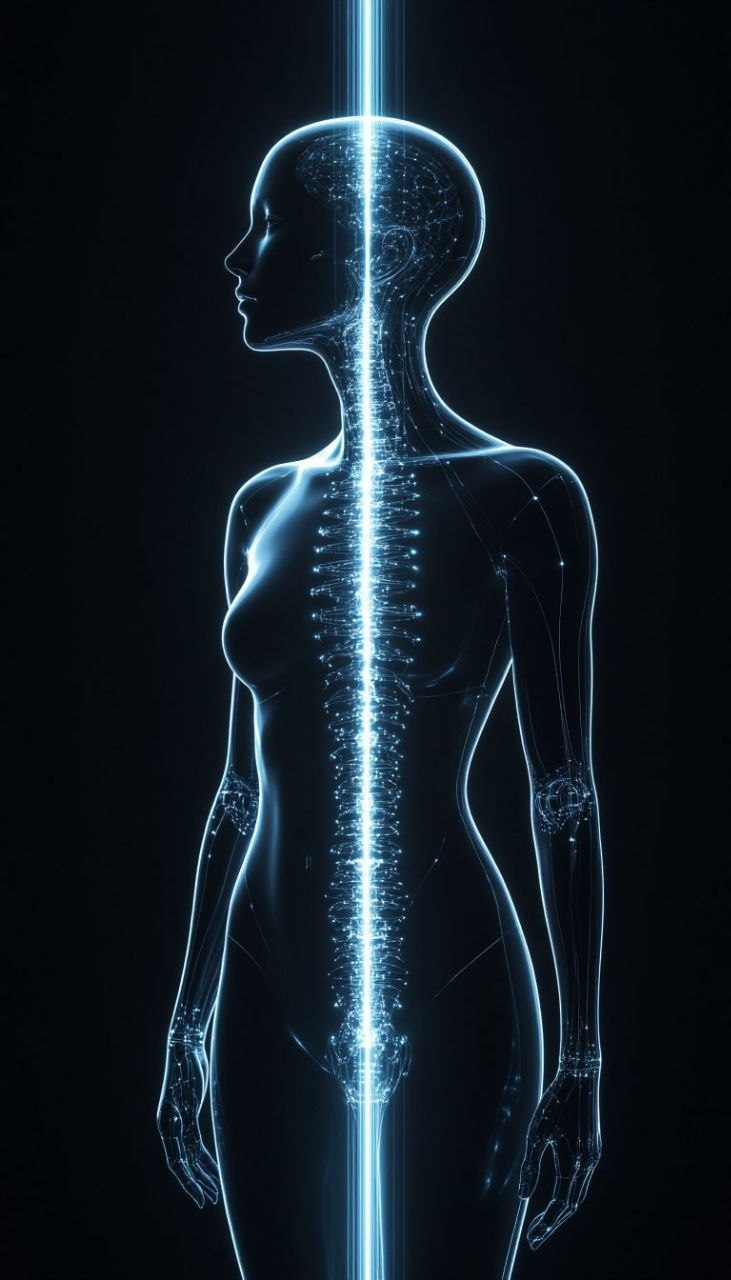
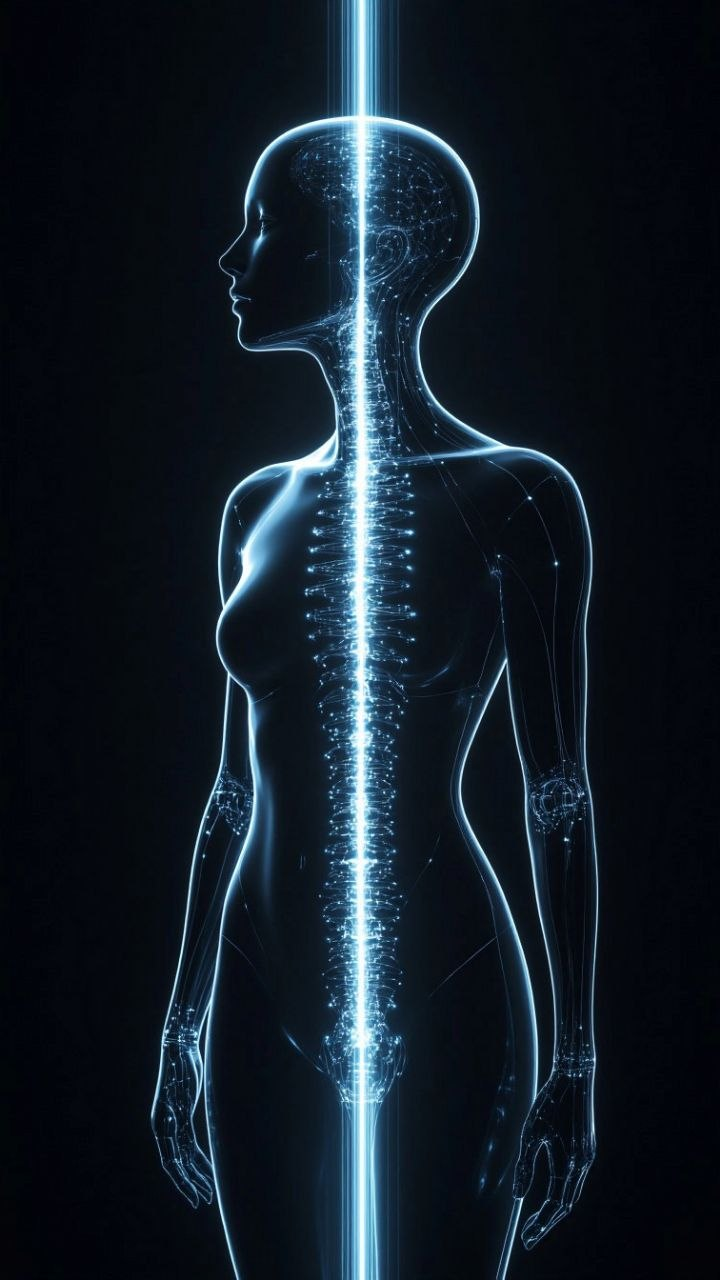
Add files via upload

diff --git a/index.html b/index.html
@@ -3,7 +3,15 @@
 <head>
     <meta charset="UTF-8">
     <meta name="viewport" content="width=device-width, initial-scale=1.0">
-    <title>Anima Robotics — Next-Gen AI Companion</title>
+    
+    <!-- === НАЧАЛО БЛОКА ДЛЯ ПОИСКОВЫХ РОБОТОВ GOOGLE И ЯНДЕКСА === -->
+    <title>Anima Robotics — Anthropomorphic Biorobotics</title>
+    <meta name="description" content="Anima Robotics Official Website. An international closed ecosystem of anthropomorphic robots with deep empathy, lifelike skin, and absolute data privacy. Premiere in 2027.">
+    <meta name="keywords" content="Anima Robotics, Anima Siri, анима роботикс, биоробот, антропоморфный биоробот, робот-компаньон, душа робота, робот с душой, душевный робот, душа плюс робот, душа и робот, эмпатия робота, эмпатия плюс робот, робот-человек, private hardware AI, exclusive AI companion, AI empathy, lifelike skin robot, anthropomorphic biorobotics, private AI ecosystem, Dubai 2027">
+    <meta name="robots" content="index, follow">
+    <meta name="google-site-verification" content="hrqpFtP0JL8XAdfWON6MvFkojFO3lrMgQsC99DZMVCI" />
+    <!-- === КОНЕЦ БЛОКА ДЛЯ ПОИСКОВЫХ РОБОТОВ === -->
+
     <style>
         * {
             margin: 0;